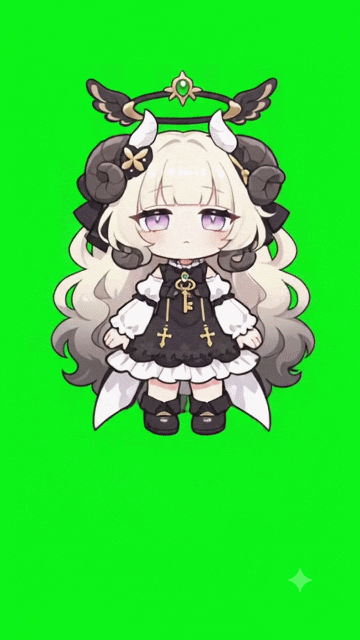
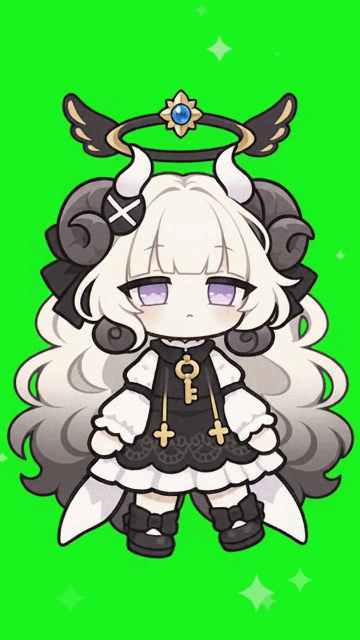
docs: 다래 끌기 2차 받음·착지 시작 그림 다시
Claude-Session: https://claude.ai/code/session_012DFmYRntmyYRtXq4JsKkmi

diff --git a/docs/status.md b/docs/status.md
@@ -5344,7 +5344,7 @@
 - **비율 통일(사용자 11-27 '마스터 비율이 Starline과 다 다름 — 작업 전에 비율부터 정해줘')**: 기준 Starline(정수리~턱 : 턱~발 ≈ 1:2.7). 첫 마스터 다래 1:1.7·레나 1:1.4·이안 1:1.3·아리아 1:0.8(지금 앱도 대체로 같음). → 4명 마스터를 비율만 맞춰 다시(요청문 `영상모션_요청문.md` '0. 비율 먼저'), 다래 서 있기 영상은 새 마스터로 다시. 아리아 머리색(금발 vs 앱 복숭아빛)은 사용자 결정 대기. → 사용자 '키가 똑같으면 재미없음 — 키 Starline > 이안 > 레나 > 아리아 > 다래': 머리 크기 같게·몸 길이로 키 차이. 목표 머리:몸 / 키 — Starline 1:2.7/100, 이안 1:2.4/92, 레나 1:2.1/84, 아리아 1:1.8/76, 다래 1:1.6/70(요청문 표). 사용자 '배율만 줄이면 머리도 작아짐' → 앱 크기 규칙: 키 282 통일·캐릭터별 그리기 배율(Starline 1.15·레나 0.95) 대신 머리 폭을 Starline 앱 머리 폭에 맞추고 그리기 배율 다섯 명 같게(키 차이는 그림의 몸 길이로) — DEV 넘길 때 적음.
 - **다래 비율 마스터 받음(사용자 11-27)**: `다래/다래_마스터레퍼런스_비율.png` — 첫 마스터와 사실상 같음(픽셀 차 1.0/255, Gemini가 비율 지시로 안 바꿈). 머리(눈 간격) 맞춰 잰 키: 다래 약 75(목표 70 ±5 → 그대로 통과), 레나 69·이안 56·아리아 53 → 셋은 '머리 그대로, 몸통·다리 약 1.3/1.9/1.7배 길게'로 요청(요청문에 적음). → **정정(같은 날)**: 앞 측정(다래 75 등)은 머리 크기 기준이 틀렸음. 얼굴 크기(눈 간격)로 Starline 옆에 세워 다시 잼: 레나 92·다래 89·이안 84·아리아 73 → 목표까지 몸만 이안 ×1.2·레나 ×0.85·아리아 ×1.1·다래 ×0.65. 미리보기 `assets/키_비교_지금vs목표.png`.
 - **캐릭터 키 설정(사용자 11-27 'Starline 180·다래 150처럼 키를 적고 작은 캐릭터라고 넣어 시도')**: Starline 180·이안 172·레나 164·아리아 156·다래 150cm(그림 목표 100·92·84·76·70, 머리 크기 같음). 다시 그리기 요청문(키·체형 말·Starline 마스터 키 기준 첨부, 2~3번 뽑아 고르기) `영상모션_요청문.md` '캐릭터 키 설정'·'다시 그리기 요청문'. → 다래 상반신+Starline 마스터 시험(`다래/다래_마스터레퍼런스_상반신시험.png`): 얼굴 크기 맞춰 Starline 옆에 세우니 키 104%(목표 70, 이전 마스터 87%보다 더 큼), 머리색 은빛·선 얇고 섬세해 그림체 다름(사용자 '그림체가 너무 다름') → 버림. 비교 `다래/다래_Starline_나란히.png`. → **나란히 선 그림 시험(`다래/다래_Starline_키비교샷.png`)**: 한 그림에 같이 세우니 키 차이가 지켜짐 — 다래 = Starline의 약 74%(장식 포함·정수리 기준 모두, 목표 70 ±5 안), 그림체도 같음. 사용자 '설정샷으로는 쓸 수 있지만 이걸로 마스터는 못 만들 듯'. 다음 시험: 이 그림을 다래 디자인·체형 기준으로, Starline 마스터를 형식 기준으로 첨부해 다래 마스터 시트(베낄 시트가 없어 체형이 이 그림을 따를 것). → **설정샷 기준 다래 마스터(`다래/다래_마스터레퍼런스_설정샷기준.png`)**: 디자인·그림체 같음, 다리가 길어지고 스타킹이 보임, 원피스가 조금 초록빛 도는 검정. 얼굴 크기 맞춰 실제 Starline 마스터 옆에 세우면 키 91%(첫 마스터 87%) — 설정샷 속 Starline이 실제보다 몸이 길게 그려져 있어서(설정샷의 74%는 그 Starline 기준) 실제 Starline 기준으론 작아지지 않음. 비교 `다래/다래_Starline_나란히2.png`. → **확정(사용자 11-27 '이 정도에서 타협 — 다래는 원래 귀엽게, 비율·키만 맞으면')**: 키 비교샷 2(`다래/다래_Starline_키비교샷2.png`, Starline 기준 그림에 다래를 그려 넣음) — 다래가 더 꼬마 체형(머리:몸 약 1:1.5, 첫 마스터 약 1:2), Starline 턱~눈 높이. 이 그림의 다래를 잘라 **다래 시작 그림 교체** `다래/다래_영상시작_정면.png`. 옆모습(걷기용)은 이 정면을 첨부해 이미지 편집으로 만들 것. 다른 캐릭터도 같은 방식(Starline 기준 그림 + 그 캐릭터 그려 넣기 → 잘라 시작 그림).
-- **다래 서 있기·걷기 영상·옆모습 받음(사용자 11-27)**: `다래/영상/0_서있기.gif`(발 오르내림 1.3%·머리 흔들림 10px, 새 꼬마 체형), `영상/W_걷기.gif`(옆모습 제자리 걷기, 발 1.1%), `다래_영상시작_옆모습.png`(이미지 편집). 시작 그림 `영상/0_서있기_시작.png`. 사용자 '요청문이 계속 달라져 피곤 — 캐릭터당 문서 하나, 모션마다 한 번에 복사' → `docs/characters/영상요청_다래.md`(동작 표 + 동작별 통째 복사 상자, 앱 동작 기준: 놀람·쓰다듬기·끌기·착지·구석 졸기·엎드려 자기·깨기·말하기·25 양 인형·75 비눗방울). 다른 캐릭터도 같은 형식으로 만들 것. → 1·2·3·5·8·9·10 받음(11-27): 서 있기와 톤 ΔE ≤4.6(끌기 어두운 부분만 8), 여러 장에서 양옆 웨이브 머리 끝이 화면 끝에 닿음(최대 약 90px, 몸은 안 잘림 — 앱 넣을 때 끝을 부드럽게). 끌기 = 서기→들려 올라가 매달림(8번 장 가장 높음). 시작 그림 뽑음: `영상/4_착지_시작.png`(끌기 8번), `영상/6_엎드려자기_시작.png`(구석 졸기 마지막 장). → 4 착지 받음(사용자 'Gemini가 계속 못 만든다 해서 프롬프트 바꿔 만듦, 끝에 다시 떠오름 — 서 있는 상태로 되나'): 떨어짐→털썩 앉음→일어남인데 15번 장부터 몸이 다시 떠 끝 장이 땅에서 61px 위. 15번 장부터 발을 앉은 땅에 붙여 '일어나 서기'로 고침, 끝 장 키를 서 있기 키에 맞춤(`도구/…/dare_land.py.txt`, 앱 크기 `영상/앱크기/4_착지/`). 확인 GIF `다래/다래_착지_확인.gif`(착지 → 서 있기 이어 붙임). 다시 만들 필요 없음. → 사용자 '갑자기 뚱뚱해짐 — 매달린 게 잘못된 듯, 눈이 서 있기와 다름': 확인 — 끌기 영상이 들려 올라가며 얼굴이 작아지고 눈·X 핀(금색 꽃으로)이 바뀜, 착지 영상은 서 있기 모습으로 돌아와 상대적으로 커 보인 것. 착지는 그대로 두고 **끌기만 다시**(요청문 '거의 움직이지 말고 발만 살짝 뜸, 얼굴·눈·X 핀 그대로'). 비교 `다래/다래_끌기착지_장별.png`. → 사용자 '착지도 일어나 서 있기로 갈 때 뚱뚱해짐 — 앞의 기준이 달라져서': 맞음 — 착지 시작 그림을 잘못된 끌기 장에서 뽑아 착지 영상도 머리가 작고 몸이 긴 비율을 이어받음(눈 간격 대비 키 7.6 vs 서 있기 6.9, 서 있기로 넘어갈 때 머리 약 10%·몸 폭 약 7% 커짐). **끌기 다시 → 새 끌기에서 착지 시작 그림 다시 뽑기 → 착지 다시** 순서.
+- **다래 서 있기·걷기 영상·옆모습 받음(사용자 11-27)**: `다래/영상/0_서있기.gif`(발 오르내림 1.3%·머리 흔들림 10px, 새 꼬마 체형), `영상/W_걷기.gif`(옆모습 제자리 걷기, 발 1.1%), `다래_영상시작_옆모습.png`(이미지 편집). 시작 그림 `영상/0_서있기_시작.png`. 사용자 '요청문이 계속 달라져 피곤 — 캐릭터당 문서 하나, 모션마다 한 번에 복사' → `docs/characters/영상요청_다래.md`(동작 표 + 동작별 통째 복사 상자, 앱 동작 기준: 놀람·쓰다듬기·끌기·착지·구석 졸기·엎드려 자기·깨기·말하기·25 양 인형·75 비눗방울). 다른 캐릭터도 같은 형식으로 만들 것. → 1·2·3·5·8·9·10 받음(11-27): 서 있기와 톤 ΔE ≤4.6(끌기 어두운 부분만 8), 여러 장에서 양옆 웨이브 머리 끝이 화면 끝에 닿음(최대 약 90px, 몸은 안 잘림 — 앱 넣을 때 끝을 부드럽게). 끌기 = 서기→들려 올라가 매달림(8번 장 가장 높음). 시작 그림 뽑음: `영상/4_착지_시작.png`(끌기 8번), `영상/6_엎드려자기_시작.png`(구석 졸기 마지막 장). → 4 착지 받음(사용자 'Gemini가 계속 못 만든다 해서 프롬프트 바꿔 만듦, 끝에 다시 떠오름 — 서 있는 상태로 되나'): 떨어짐→털썩 앉음→일어남인데 15번 장부터 몸이 다시 떠 끝 장이 땅에서 61px 위. 15번 장부터 발을 앉은 땅에 붙여 '일어나 서기'로 고침, 끝 장 키를 서 있기 키에 맞춤(`도구/…/dare_land.py.txt`, 앱 크기 `영상/앱크기/4_착지/`). 확인 GIF `다래/다래_착지_확인.gif`(착지 → 서 있기 이어 붙임). 다시 만들 필요 없음. → 사용자 '갑자기 뚱뚱해짐 — 매달린 게 잘못된 듯, 눈이 서 있기와 다름': 확인 — 끌기 영상이 들려 올라가며 얼굴이 작아지고 눈·X 핀(금색 꽃으로)이 바뀜, 착지 영상은 서 있기 모습으로 돌아와 상대적으로 커 보인 것. 착지는 그대로 두고 **끌기만 다시**(요청문 '거의 움직이지 말고 발만 살짝 뜸, 얼굴·눈·X 핀 그대로'). 비교 `다래/다래_끌기착지_장별.png`. → 사용자 '착지도 일어나 서 있기로 갈 때 뚱뚱해짐 — 앞의 기준이 달라져서': 맞음 — 착지 시작 그림을 잘못된 끌기 장에서 뽑아 착지 영상도 머리가 작고 몸이 긴 비율을 이어받음(눈 간격 대비 키 7.6 vs 서 있기 6.9, 서 있기로 넘어갈 때 머리 약 10%·몸 폭 약 7% 커짐). **끌기 다시 → 새 끌기에서 착지 시작 그림 다시 뽑기 → 착지 다시** 순서. → **끌기 2차 받음**: 서 있기와 비율 같음(눈 간격 대비 키 6.8~6.96 vs 6.91, 몸 폭 4.67~4.80 vs 4.73), 눈·X 핀 그대로, 크기 흔들림 없음. 1차는 `영상/3_끌기_1차.gif`로. 착지 시작 그림 다시 뽑음 `영상/4_착지_시작.png`(새 끌기 12번 장). 비교 `다래/다래_끌기2_비교.png`.
 - **QA 요청(11-27)**: 기획 도구 `docs/**/*.py`가 배포 지문을 바꿔 0.59.0 게시가 막힘 → QA가 dare_land.py·dare_stand.py를 main에서 잠시 뺌(a8c3f3bc). 기획 약속: 게시 중엔 .py·src·tests·scripts·packaging 푸시 안 함, 앞으로 기획 도구는 docs에 `.py.txt`로만. → QA: **0.59.0 게시 완료(태그 v0.59.0 = ca4f0964)**, 두 파일 되돌림, 푸시 재개 가능. 이후(QA 제안): 기획 도구 `docs/characters/도구/**` 의 .py 전부 `.py.txt`로 바꿈(다음 후보 전, 문서 경로도). QA 자료(docs/qa/assets 등)의 .py는 QA 몫이라 그대로.
 - **아리아 티셔츠 전체 다시 그림·물주기 시작 장·레나 갇힌 틈 정정 DEV 반영(11-26)**: tshirt OVERRIDES '다시_앱크기' 81장 통째(옛 79칸 템플릿·걷기_v2·끌기/착지 덮어쓰기 없앰, 통째 다시 그림은 템플릿을 자르지 않고 기본 프레임이 다 있는지만 확인 — 오프숄더 결과 해시 같음), ~~motions intro~~ → 정정(기획 11-26 사용자 '들었을 때만 조금 더'): intro 없앰, 아리아 물주기 순서 그대로 + 6번만 hold 1.2초(모든 옷), 레나 red_dress 정정본 다시 빌드, 여름 드레스 쓰다듬기 6장은 새 티셔츠 띠 폭 기준으로 다시 맞춰짐. 노트 2줄.
 - **아리아 여름 드레스 전체 다시 그림 DEV 반영(11-26, 마지막 그림)**: OVERRIDES '다시_앱크기' 81장 통째 + harmonize(stand_0), REF_FIT(쓰다듬기 티셔츠 띠 폭) 없앰. 테스트: 모자 옷은 머리 실루엣 대신 '서 있기 대비 키 비율 = 기본 같은 장 ±6%'(실측 최대 1.6%) + 걷기 같은 장 비율 2% 안·중앙값 1.031 vs 기본 1.032, 띠 폭 테스트·HAT 중앙값 없앰. 노트 1줄.

diff --git a/docs/characters/영상요청_다래.md b/docs/characters/영상요청_다래.md
@@ -10,8 +10,8 @@
 | W | 걷기 | `다래_영상시작_옆모습.png` | `W_걷기.gif` | 받음 |
 | 1 | 놀람(클릭) | `영상/0_서있기_시작.png` | `1_놀람.gif` | 받음 |
 | 2 | 쓰다듬기 | `영상/0_서있기_시작.png` | `2_쓰다듬기.gif` | 받음 |
-| 3 | 끌기(들려 대롱대롱) | `영상/0_서있기_시작.png` | `3_끌기.gif` | **다시**(얼굴·눈이 바뀜) |
-| 4 | 떨어지기·착지·넘어졌다 일어나기 | `영상/4_착지_시작.png` (준비됨) | `4_착지.gif` | **다시**(끌기 다시 받은 뒤 — 시작 그림을 새 끌기에서 뽑아 줌) |
+| 3 | 끌기(들려 대롱대롱) | `영상/0_서있기_시작.png` | `3_끌기.gif` | 받음(2차, 서 있기와 같은 비율) |
+| 4 | 떨어지기·착지·넘어졌다 일어나기 | `영상/4_착지_시작.png` (준비됨) | `4_착지.gif` | **다음** — 새 시작 그림 준비됨 |
 | 5 | 웅크리기 → 구석 앉아 졸기 | `영상/0_서있기_시작.png` | `5_구석졸기.gif` | 받음 |
 | 6 | 엎드려 자기(구석) | `영상/6_엎드려자기_시작.png` (준비됨) | `6_엎드려자기.gif` | **다음** |
 | 7 | 깨기 → 일어나기 | 6번 영상 끝 장(기획이 뽑아 줌) | `7_깨기.gif` | 6번 뒤 |
@@ -52,7 +52,7 @@
 [동작] 보이지 않는 손에 옷 뒷덜미가 잡힌 것처럼 발끝이 땅에서 살짝 떨어져 매달리고, 팔을 몸 옆에 늘어뜨린 채 다리만 천천히 앞뒤로 대롱대롱 흔들어. 매달린 채로 계속.
 ```
 
-### 4 떨어지기·착지 — 첨부 `영상/4_착지_시작.png` (새 끌기에서 기획이 다시 뽑아 줌)
+### 4 떨어지기·착지 — 첨부 `영상/4_착지_시작.png` (11-27 새 끌기 12번 장)
 ```
 첨부 그림 속 캐릭터가 그대로, 아래 동작을 하는 짧은 애니메이션을 만들어줘.
 - 카메라 고정, 캐릭터를 화면의 50% 크기로 두고 여백을 넉넉히, 화면 밖으로 나가지 않게
